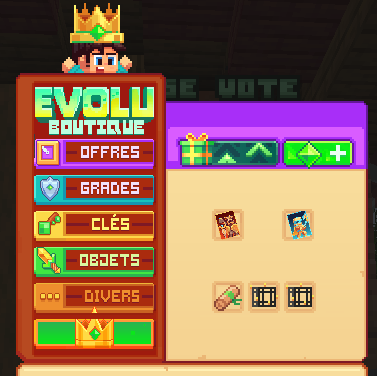
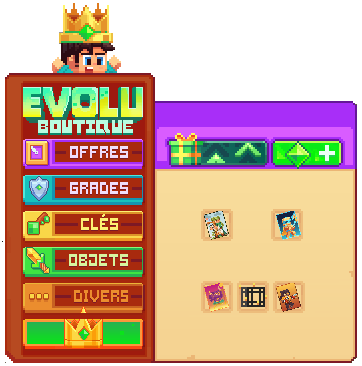
changement d'images

diff --git a/tuto-et-astuce/rappel-tutoriel.md b/tuto-et-astuce/rappel-tutoriel.md
@@ -175,7 +175,7 @@ Vous avez déjà terminé le <mark style="color:green;">tutoriel de démarrage</
 | **Objectif** | Vous devez ouvrir le menu des métiers et en choisir un. |
 | **Commande** | <mark style="color:green;">`/jobs`</mark> |
 
-<figure><img src="../.gitbook/assets/Tuto_Et_Astuce/Rappel_Tutoriel/chapitre2_etape4.png" alt=""><figcaption><p><strong>Aperçu du menu des </strong><mark style="color:green;"><strong>métiers</strong></mark></p></figcaption></figure>
+<figure><img src="../.gitbook/assets/Jobs/InterfaceJobs.png" alt=""><figcaption><p><strong>Aperçu du menu des </strong><mark style="color:green;"><strong>métiers</strong></mark></p></figcaption></figure>
 
 {% hint style="info" %}
 <mark style="color:green;">ASTUCE</mark> : Pour plus d'informations sur les métiers, consultez la page dédiée : [Les Métiers](../le-gameplay/les-metiers.md)
